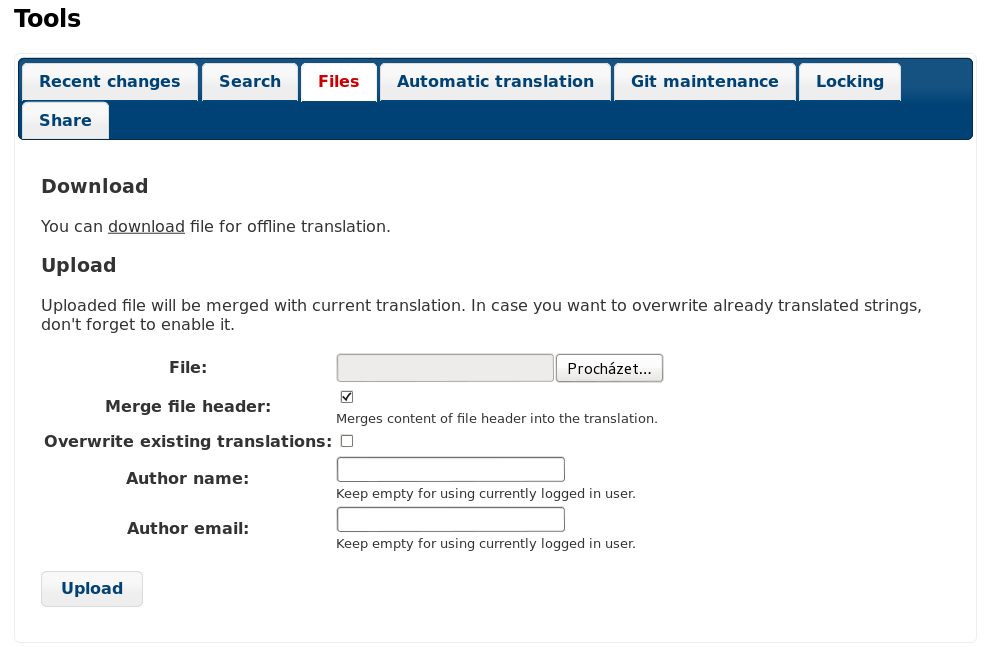
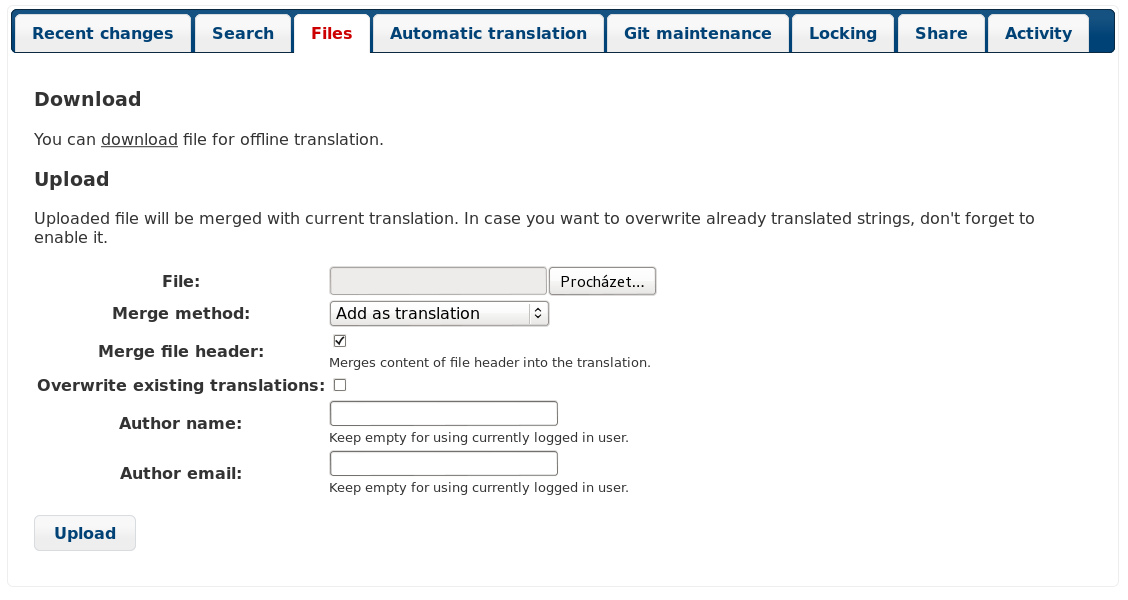
Document import methods (issue #214)

diff --git a/docs/usage.rst b/docs/usage.rst
@@ -71,6 +71,24 @@ existing translation (even if it has been changed meanwhile).
 
     This ability might be limited by :ref:`privileges`.
 
+Import method
++++++++++++++
+
+You can choose how imported strings will be merged out of following options:
+
+Add as translation
+    Imported translations are added as translation. This is most usual and
+    default behavior.
+Add as a suggestion
+    Imported translations are added as suggesions, do this when you want to
+    review imported strings.
+Add as fuzzy translation
+    Imported translations are added as fuzzy translations. This can be useful
+    for review as well.
+
+Additionally, when adding as a translation, you can choose whether to overwrite
+already translated strings or not.
+
 .. image:: _static/export-import.png
 
 Translation links
